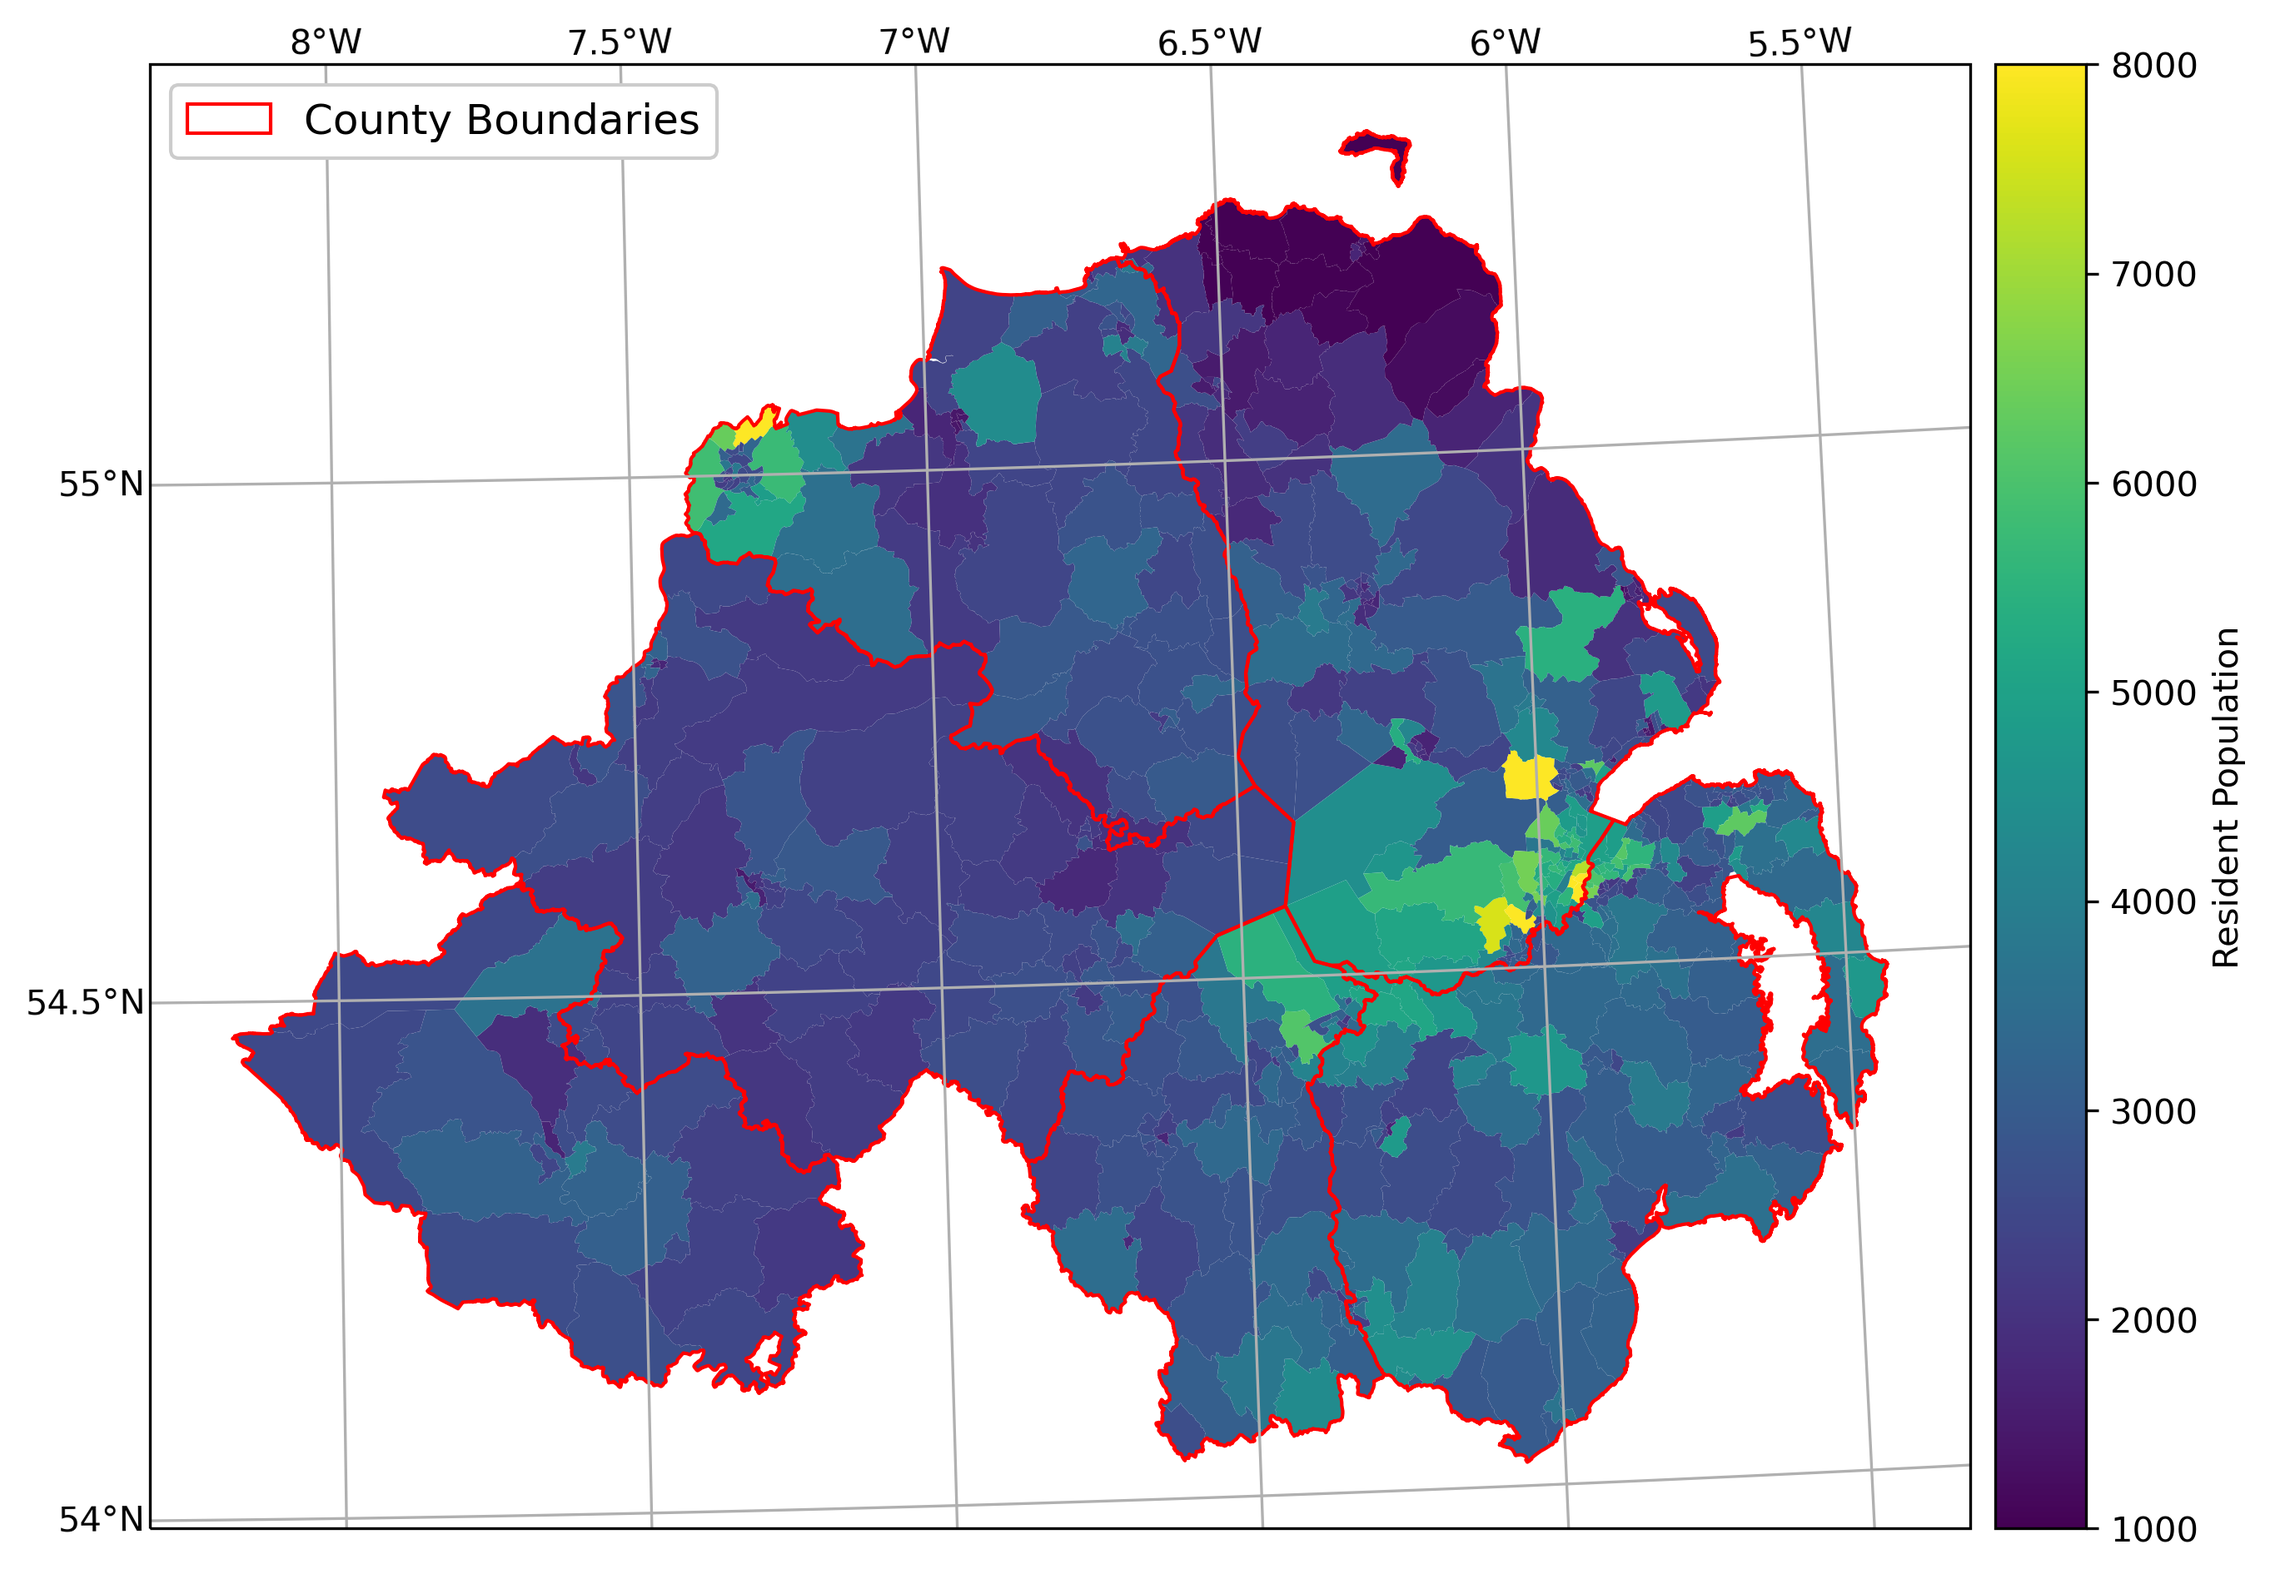
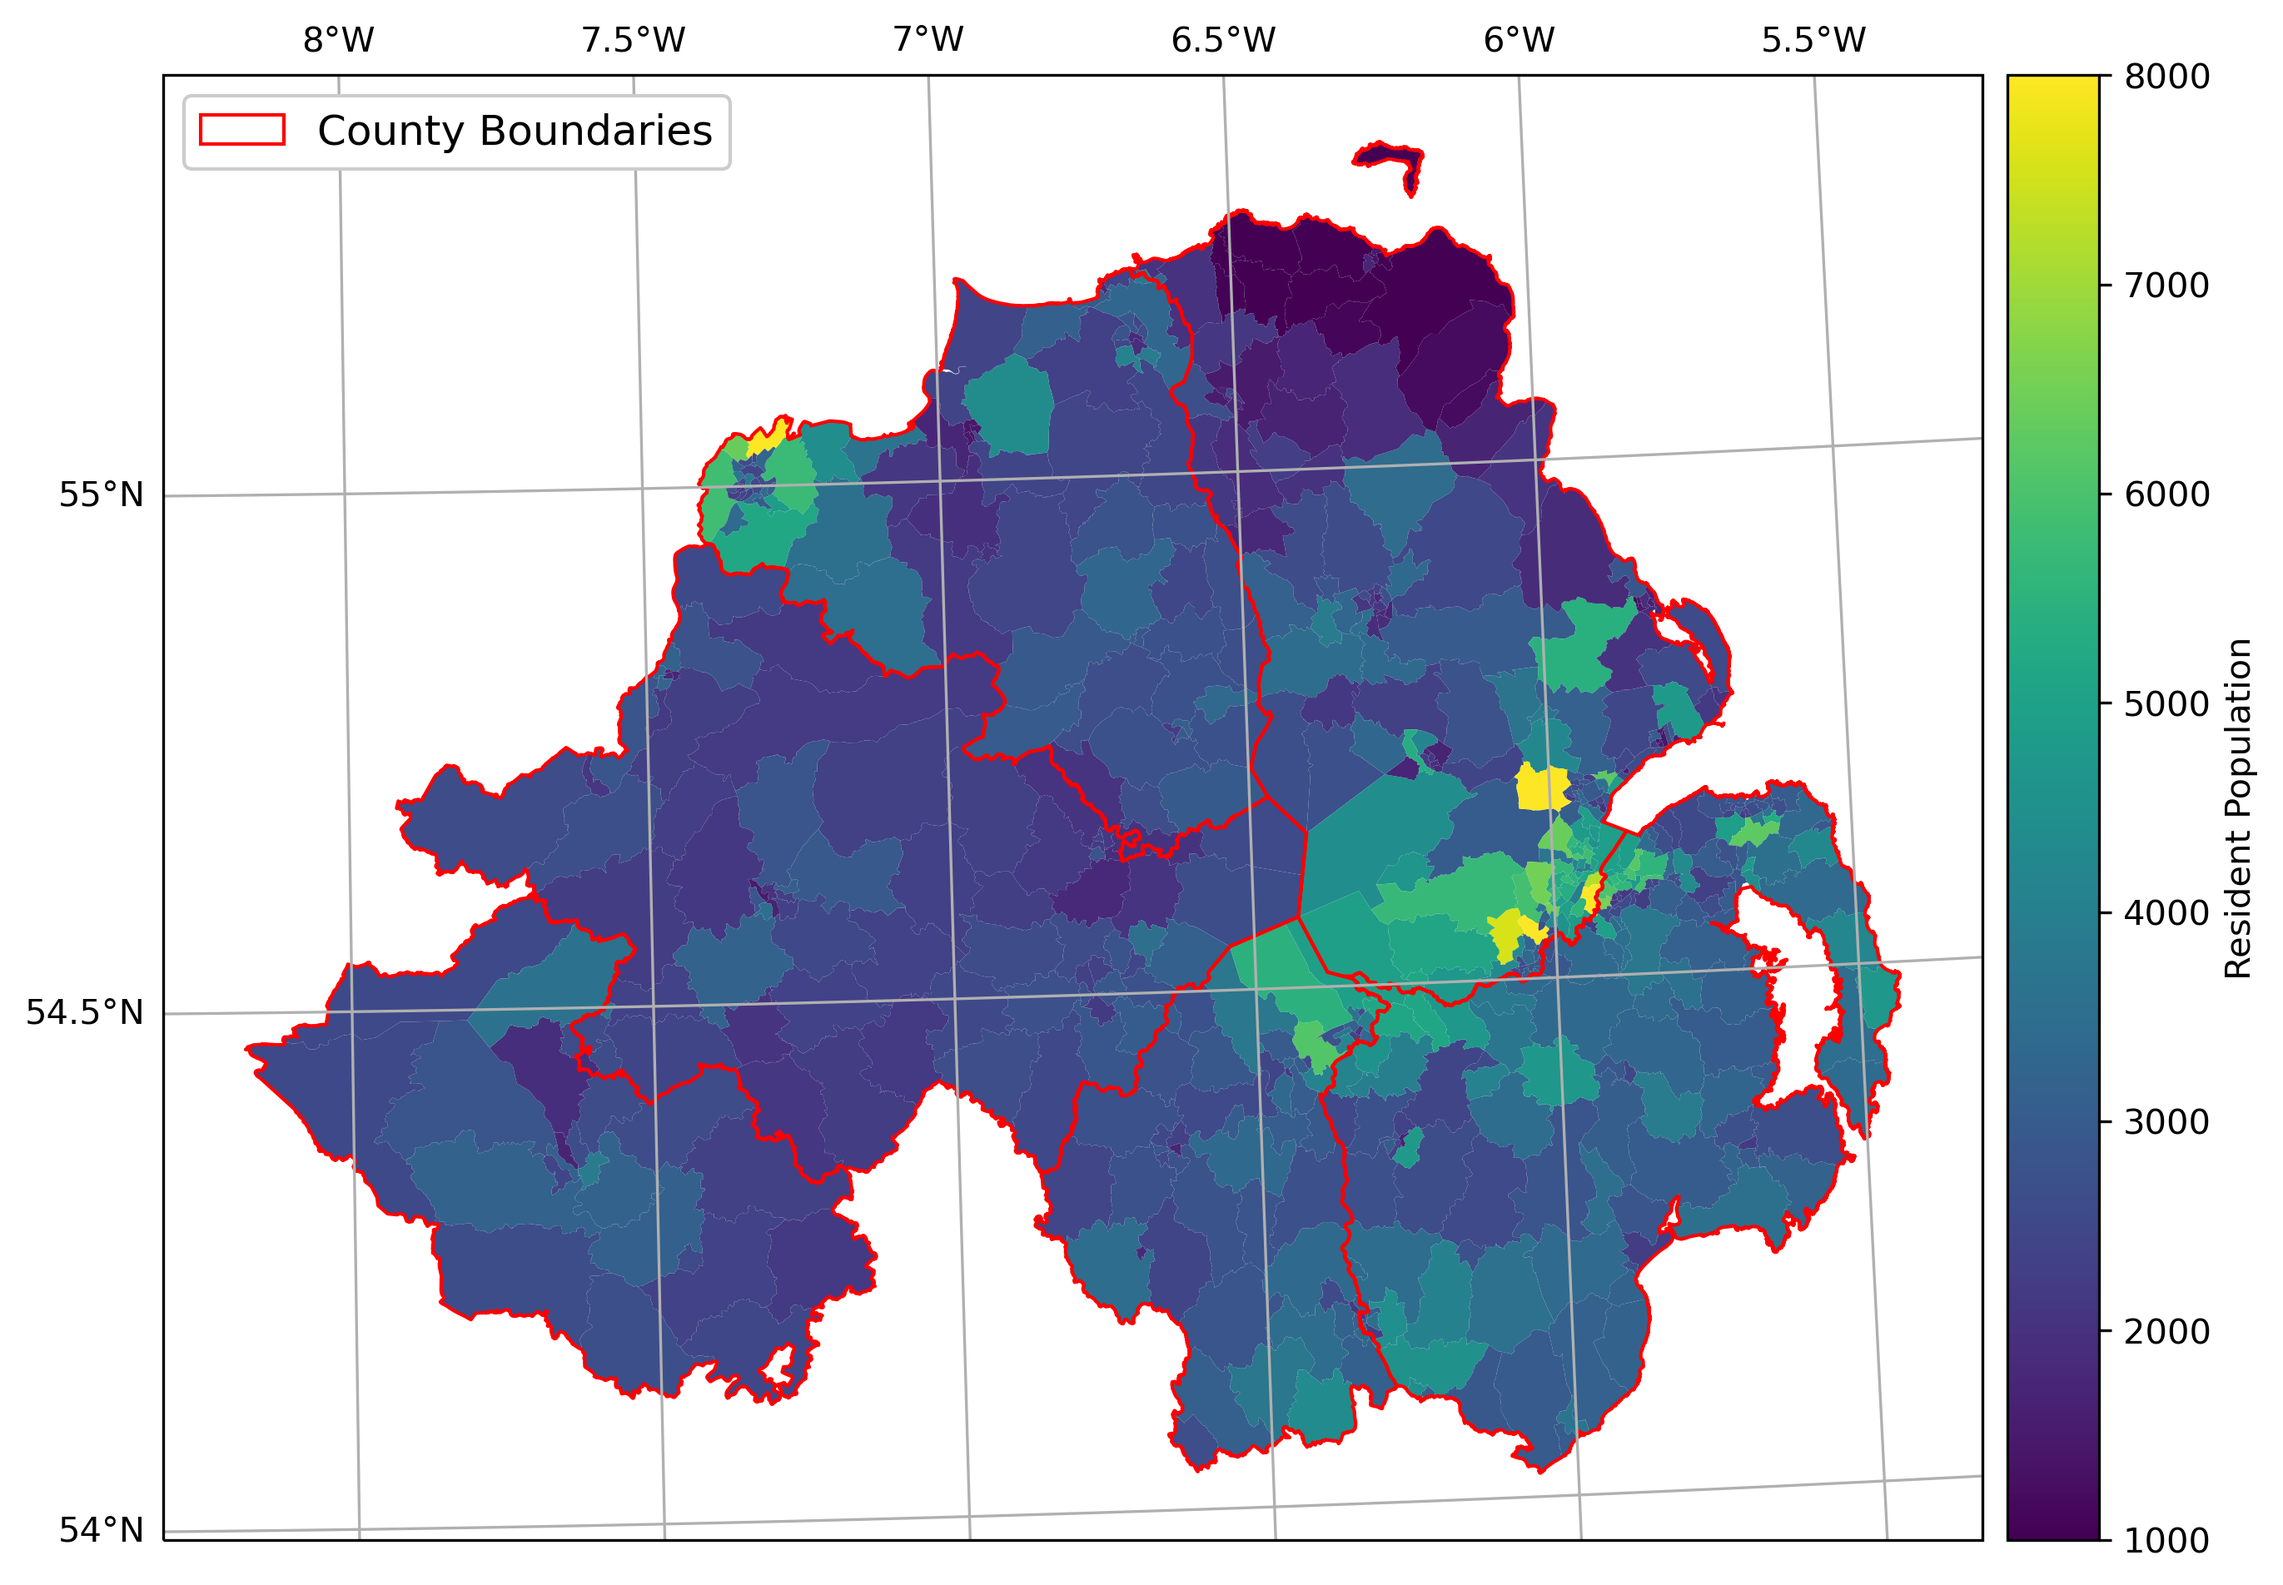
Complete week 3 exercises
Addition of county and wards spatial join, calculation of population density for each ward and investigation of population data per ward and per county. Change of map creation script to show population density (people/km2) instead of population count.

diff --git a/Week3/exercise_script.py b/Week3/exercise_script.py
@@ -11,8 +11,35 @@ import matplotlib.patches as mpatches
 # try to print the results to the screen using the format method demonstrated in the workbook
 
 # load the necessary data here and transform to a UTM projection
+counties = gpd.read_file('data_files/Counties.shp')
+wards = gpd.read_file('data_files/NI_Wards.shp')
+
+myCRS = ccrs.UTM(29)
+
+counties = counties.to_crs(myCRS) #transform crs to "myCRS"/UTM29
+wards = wards.to_crs(myCRS)
 
 # your analysis goes here...
+wards['WARDAREA'] = wards['geometry'].area / 1e6  # calculate area of each ward
+wards["Ward_ppsqkm"] = wards['Population']/wards['WARDAREA']  # calculate pop density of each ward
+
+cwjoin = gpd.sjoin(counties, wards, how='inner', lsuffix='left', rsuffix='right') # perform the spatial join
+# print(cwjoin.head()) #show joined data columns
+
+print(cwjoin.groupby(['CountyName'])['Population'].sum()) #summarise ward population totals by county
+
+wards_pop = wards['Population'].sum() #add up population from wards
+joined_pop = cwjoin['Population'].sum() #add up population from spatial join
+
+print('Total population sum from wards file: {:.2f}'.format(wards_pop)) #check if wards are overlapping county boundaries
+print('Total population sum from spatial join: {:.2f}'.format(joined_pop))
+
+print('Number of features in wards: {}'.format(len(wards.index)))
+print('Number of features in joined: {}'.format(len(cwjoin.index)))  # check number of features in wards and joined data
+print('Number of wards located in more than one county: {}'.format((len(cwjoin.index)-len(wards.index))/2))
+print('Total population of wards located in more than one county: {}'.format((joined_pop-wards_pop)/2))
+print('Highest ward population: {}'.format((wards['Population'].max())))
+print('Ward with highest population: {}'.format(wards.loc[wards['Population'] == 9464, 'Ward']))
 
 # ---------------------------------------------------------------------------------------------------------------------
 # below here, you may need to modify the script somewhat to create your map.
@@ -33,8 +60,8 @@ divider = make_axes_locatable(ax)
 cax = divider.append_axes("right", size="5%", pad=0.1, axes_class=plt.Axes)
 
 # plot the ward data into our axis, using
-ward_plot = wards.plot(column='Population', ax=ax, vmin=1000, vmax=8000, cmap='viridis',
-                       legend=True, cax=cax, legend_kwds={'label': 'Resident Population'})
+ward_plot = wards.plot(column='Ward_ppsqkm', ax=ax, vmin=300, vmax=10000, cmap='viridis',
+                       legend=True, cax=cax, legend_kwds={'label': 'Resident Population density (people per square km)'})
 
 county_outlines = ShapelyFeature(counties['geometry'], myCRS, edgecolor='r', facecolor='none')
 
@@ -44,4 +71,4 @@ county_handles = [mpatches.Rectangle((0, 0), 1, 1, facecolor='none', edgecolor='
 ax.legend(county_handles, ['County Boundaries'], fontsize=12, loc='upper left', framealpha=1)
 
 # save the figure
-fig.savefig('sample_map.png', dpi=300, bbox_inches='tight')
+fig.savefig('population_density_map.png', dpi=300, bbox_inches='tight')
